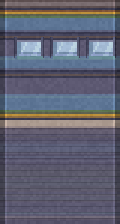
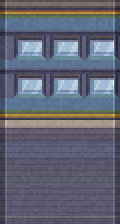
Crossroads perspective: the other street in proper perspective, and side walls that match their fronts
- The other street (the side street seen through the gap; the main street from the cross street) is seen from a lower eye: the stage's camera is far back and high (its horizon near the top of the screen), right for the row in view but it made a street running away from it climb the screen (the side street stood raised). The horizon is lowered for what is drawn in plain perspective (StageCamera.leaned drop), the same picture at the target's depth where the streets meet, receding to a horizon near the street beyond; it comes in with the resting street's look, so mid-turn nothing changes and nothing jumps. The fade of the main street from the cross street is gone: its whole row stands there in perspective.
- Only the west corner building takes the cross street's cabinet slant: the test took every building west of the corner, which stacked the main street up into the sky from the cross street.
- Side walls (make_buildings.py side_segment): each row the colour of the front's wall only (glass and frames left out: no grey bands), and every row of the front's own windows, frame and all, repeated along the depth (one short window row before)

Claude-Session: https://claude.ai/code/session_013NozTEqze7jz3LdAKrPRz7

diff --git a/kotlin-street/shared/src/main/kotlin/scene/CornerWorld.kt b/kotlin-street/shared/src/main/kotlin/scene/CornerWorld.kt
@@ -116,10 +116,10 @@ internal class CornerWorld {
     /** Makes the ground matrices for this frame (after [StageCamera.update]). */
     private fun grounds() {
         val u = cam.unit
-        cam.leaned(g[0], leanMain, 0f, -u / LANE, 0f, 0f, 0f)
-        cam.leaned(g[1], leanMain, 0f, -u / LANE, leanCross, 0f, u / LANE)
-        cam.leaned(g[2], 0f, 0f, 0f, leanCross, 0f, u / LANE)
-        cam.m.copyInto(g[3])
+        cam.leaned(g[0], leanMain, 0f, -u / LANE, 0f, 0f, 0f, drop(leanMain))
+        cam.leaned(g[1], leanMain, 0f, -u / LANE, leanCross, 0f, u / LANE, drop(max(leanMain, leanCross)))
+        cam.leaned(g[2], 0f, 0f, 0f, leanCross, 0f, u / LANE, drop(leanCross))
+        cam.leaned(g[3], 0f, 0f, 0f, 0f, 0f, 0f, drop(leanCross))
     }
 
     private fun DrawScope.light(s: CrossSide, painter: BuildingPainter) {
@@ -436,7 +436,7 @@ internal class CornerWorld {
             if (n >= MAX) break
             val s = sides.getOrNull(bx.street) ?: continue
             val l = s.layouts.getOrNull(bx.index) ?: continue
-            val a = (if (bx.street == restStreet) 1f else fadeOf(bx)) * farFade(bx.street, bx.x0, bx.x1)
+            val a = if (bx.street == restStreet) 1f else fadeOf(bx)
             if (a <= 0f) continue
             boxMatrix(cr, s, bx, bm)
             var minX = Float.MAX_VALUE; var maxX = -Float.MAX_VALUE; var minY = Float.MAX_VALUE; var maxY = -Float.MAX_VALUE
@@ -482,8 +482,7 @@ internal class CornerWorld {
      * or faded out. One on the camera's side of the corner fades as the cut passes it, as the buildings there do.
      */
     private fun billboard(q: Int, x: Float, z: Float, w: Float, reach: Float, tall: Float, street: Int): Boolean {
-        val a = (if (restStreet < 0 && nearSide(x, x, z, z)) 1f - smooth((cam.cutDepth - cam.depth(x, z)) / FADE_POINT) else 1f) *
-            farFade(street, x, x)
+        val a = if (restStreet < 0 && nearSide(x, x, z, z)) 1f - smooth((cam.cutDepth - cam.depth(x, z)) / FADE_POINT) else 1f
         if (a <= 0f) return false
         cam.project(ground(x, z), x, 0f, z, pt)
         if (pt[2] < NEAR) return false
@@ -506,22 +505,23 @@ internal class CornerWorld {
     /** How much is left of building [i] of street [k] this frame (1 for the street at rest, and for every one never faded). */
     fun shown(cr: Crossroads, k: Int, i: Int): Float {
         if (k == restStreet) return 1f
-        for (bx in cr.boxes) if (bx.street == k && bx.index == i) return fadeOf(bx) * farFade(bx.street, bx.x0, bx.x1)
+        for (bx in cr.boxes) if (bx.street == k && bx.index == i) return fadeOf(bx)
         return 1f
     }
 
     /**
-     * How much is left of the main street's things between world x [x0] and [x1] as the camera settles into the cross
-     * street's own look. That look is the stage's cabinet view, a pinhole far back with its horizon high on the screen:
-     * fine for a row seen from the front, but a street running away from it climbs up the screen and hardly shrinks, so
-     * the main street seen from the cross street stood in the sky like a stack of boxes. Mid-turn the camera is plain
-     * perspective and the main street recedes as it should; as the cross street's look comes in ([leanCross]) everything
-     * of the main street but its two corner buildings (and what stands by them) fades out.
+     * How far (pixels) the horizon is lowered for what is drawn in plain perspective, with [lean] of its own street's
+     * cabinet look. The stage's view is a pinhole far back and high up, its horizon near the top of the screen: right for
+     * the row in view, whose roofs it sees from above, but a street running away from it climbs the screen and hardly
+     * shrinks (the side street seen through the gap stood raised; the main street from the cross street stood in the
+     * sky). So the other street is seen from an eye [EYE_LOW] up, the same picture at the target's depth (where the two
+     * streets meet) and receding to a horizon near the street beyond. Mid-turn, with neither street's look left, the
+     * camera is plain perspective as before; the drop comes in with the resting street's look.
      */
-    private fun farFade(street: Int, x0: Float, x1: Float): Float {
-        if (street != 0 || leanCross <= 0f) return 1f
-        if (x1 >= -FAR_KEEP && x0 <= MOUTH + FAR_KEEP) return 1f
-        return 1f - smooth(leanCross / FAR_BY)
+    private fun drop(lean: Float): Float {
+        val rest = max(leanMain, leanCross)
+        val full = (cam.eye - EYE_LOW) * cam.unit
+        return if (full <= 0f) 0f else full * rest * (1f - lean)
     }
 
     /** Opens the layer item [q] fades in, if it is fading: true if one was opened (closed by [endFade]). */
@@ -636,15 +636,18 @@ internal class CornerWorld {
             0 -> {
                 val sh = shift(s, s.street.centers[bx.index])
                 // the west corner is also the cross street's first lot: its east wall that street's front
-                val corner = bx.x1 <= .01f
+                // (only that one: every building west of the corner ends at or before it, and the others took the cross
+                // street's cabinet slant along X, which stacked the main street up into the sky from the cross street)
+                val corner = bx.x1 <= .01f && bx.x1 > -1f
                 val sc = if (corner) cornerShift(cr) else 0f
-                cam.leaned(out, leanMain, sh * k, -B.DY * k, if (corner) leanCross else 0f, -sc * k, B.DY * k)
+                cam.leaned(out, leanMain, sh * k, -B.DY * k, if (corner) leanCross else 0f, -sc * k, B.DY * k,
+                    drop(if (corner) max(leanMain, leanCross) else leanMain))
             }
             1 -> {
                 val sh = shift(s, s.street.centers[bx.index])
-                cam.leaned(out, 0f, 0f, 0f, leanCross, -sh * k, B.DY * k)
+                cam.leaned(out, 0f, 0f, 0f, leanCross, -sh * k, B.DY * k, drop(leanCross))
             }
-            else -> cam.m.copyInto(out)
+            else -> cam.leaned(out, 0f, 0f, 0f, 0f, 0f, 0f, drop(0f))
         }
     }
 
@@ -785,10 +788,8 @@ internal class CornerWorld {
          * looks) into it; a lamp or a person once the cut is [FADE_POINT] street units past it.
          */
         const val FADE_SHARE = .55f
-        /** The main street's corner buildings stay in the cross street's view: within this of the corner (street units). */
-        const val FAR_KEEP = 1f
-        /** ... and the rest of it is gone once the cross street's look is this far in. */
-        const val FAR_BY = .6f
+        /** The eye the other street is seen from at rest (street units up; a person is 36). */
+        const val EYE_LOW = 60f
         const val FADE_POINT = 40f
         const val EAST_FROM = 12f
         const val EAST_TO = 28f

diff --git a/kotlin-street/shared/src/main/kotlin/scene/StageCamera.kt b/kotlin-street/shared/src/main/kotlin/scene/StageCamera.kt
@@ -94,16 +94,21 @@ class StageCamera {
      * of +Z, and the X column [wx] of the way to ([xx], [xy]) per unit of +X. The offsets are what the stage draws at
      * rest, where every point of a row's front is [r] deep.
      */
-    fun leaned(out: FloatArray, wz: Float, zx: Float, zy: Float, wx: Float, xx: Float, xy: Float) {
+    fun leaned(out: FloatArray, wz: Float, zx: Float, zy: Float, wx: Float, xx: Float, xy: Float, drop: Float = 0f) {
         m.copyInto(out)
+        if (drop != 0f) {
+            // the horizon [drop] pixels lower and the eye lower to match: the same picture at the target's depth, but what
+            // runs away from the camera recedes towards a horizon near the street instead of climbing the screen
+            out[4] += drop * out[8]; out[6] += drop * out[10]; out[7] += drop * (out[11] - r)
+        }
         if (wz > 0f) {
             out[2] = m[2] + (zx * r - m[2]) * wz
-            out[6] = m[6] + (zy * r - m[6]) * wz
+            out[6] = out[6] + (zy * r - out[6]) * wz
             out[10] = m[10] * (1f - wz)
         }
         if (wx > 0f) {
             out[0] = m[0] + (xx * r - m[0]) * wx
-            out[4] = m[4] + (xy * r - m[4]) * wx
+            out[4] = out[4] + (xy * r - out[4]) * wx
             out[8] = m[8] * (1f - wx)
         }
     }

diff --git a/kotlin-street/tools/make_buildings.py b/kotlin-street/tools/make_buildings.py
@@ -64,14 +64,20 @@ def find_windows(front, upper_rows):
     return boxes, cut
 
 def side_segment(seg, windows):
-    """A side wall for one front segment: each row takes the typical colour of that row of the front (so the trim bands
-    and the wall colour carry over, and decoration averages out), plus the segment's own windows."""
+    """A side wall for one front segment: each row the colour of that row's WALL on the front (its glass and the frames
+    round it left out, so the trim bands and the wall colour carry over and the windows do not smear into grey bands),
+    plus every row of the front's own windows, each its real window with its frame, repeated along the depth."""
     w, h = seg.size
     a = np.array(seg); gm = glass(a)
-    rows = np.zeros((h, 4), np.uint8)
+    near = dilate(gm, 4)                                            # the glass and its frame
+    rows = np.zeros((h, 4), np.uint8); ok = np.zeros(h, bool)
     for y in range(h):
-        px = a[y][(a[y, :, 3] > 200) & ~gm[y]]
-        rows[y] = np.median(px, axis=0) if len(px) else (60, 50, 50, 255)
+        px = a[y][(a[y, :, 3] > 200) & ~near[y]]
+        if len(px) >= 8: rows[y] = np.median(px, axis=0); ok[y] = True
+    if ok.any():
+        idx = np.where(ok)[0]
+        for y in np.where(~ok)[0]: rows[y] = rows[idx[np.abs(idx - y).argmin()]]   # a row all windows: the nearest wall's
+    else: rows[:] = (60, 50, 50, 255)
     if not windows:
         # the ground floor's side wall: the wall's own colour with brick courses, not the shop display's bands
         solid = a[(a[..., 3] > 200) & ~gm]
@@ -80,12 +86,17 @@ def side_segment(seg, windows):
         rows[::6, :3] = (rows[::6, :3].astype(np.int32) * 86 // 100).astype(np.uint8)
     side = Image.fromarray(np.repeat(rows[:, None, :], D, axis=1))
     if windows:
-        boxes = [b for b in components(gm) if (b[2]-b[0]) < 70]
-        if boxes:
-            x0, y0, x1, y1 = boxes[0]
-            m = 3; crop = seg.crop((max(0, x0-m), max(0, y0-m), min(w, x1+m+1), min(h, y1+m+1)))
-            for fx in (0.12, 0.42, 0.72):
-                side.alpha_composite(crop, (int(D * fx), max(0, y0-m)))
+        # whole windows (panes split by a mullion together), grouped into rows by their top
+        boxes = sorted((b for b in components(dilate(gm, 1), 20) if (b[2] - b[0]) < 70), key=lambda b: (b[1], b[0]))
+        done = []
+        for (x0, y0, x1, y1) in boxes:
+            if any(abs(y0 - d) <= 4 for d in done): continue
+            done.append(y0)
+            m = 3; crop = seg.crop((max(0, x0 - m), max(0, y0 - m), min(w, x1 + m + 1), min(h, y1 + m + 1)))
+            cw = crop.width
+            spots = (0.12, 0.42, 0.72) if cw <= 34 else (0.18, 0.58) if cw <= 52 else (0.3,)
+            for fx in spots:
+                side.alpha_composite(crop, (min(D - cw, int(D * fx)), max(0, y0 - m)))
     # corner pilasters, and a fine grain so the wall reads as masonry and not as flat bands
     arr = np.array(side).astype(np.int32)
     arr[:, :5, :3] = arr[:, :5, :3] * 72 // 100; arr[:, -5:, :3] = arr[:, -5:, :3] * 72 // 100
